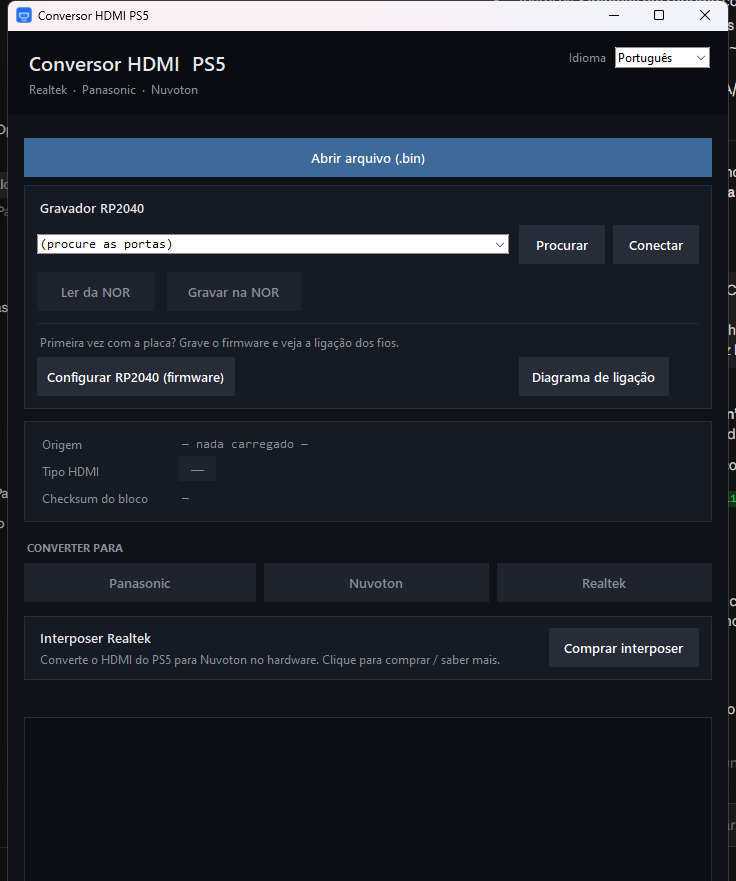
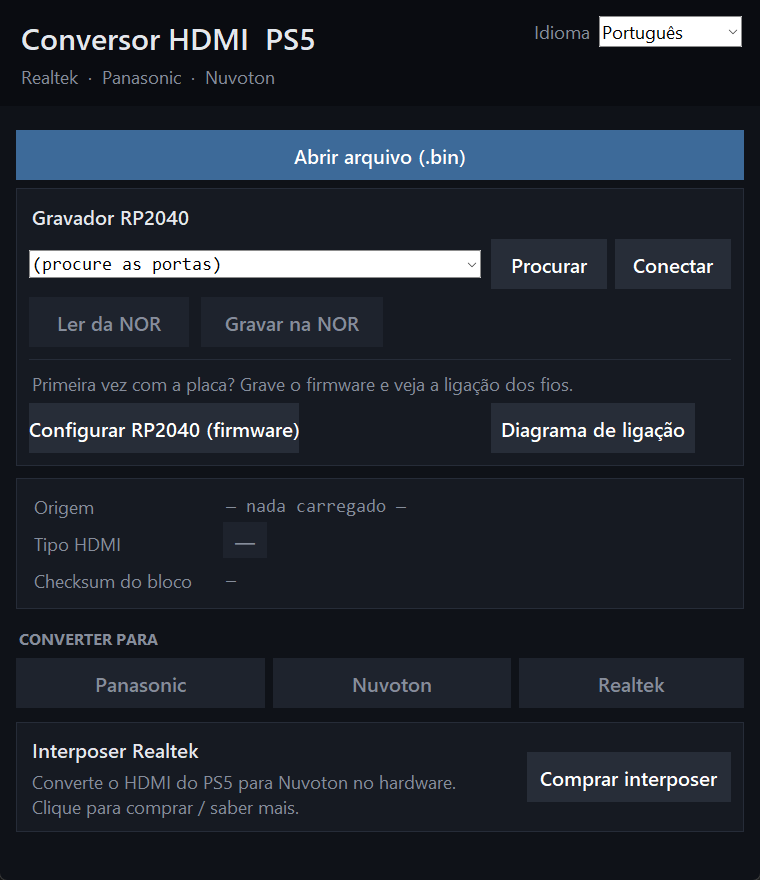
README: print do software em alta resolucao e remove link do Instagram

diff --git a/README.md b/README.md
@@ -95,8 +95,7 @@ Converte o HDMI do PS5 para Nuvoton direto no hardware.
 ## Créditos
 
 - **Estudos do offset de HDMI do PS5:** **TXD Games** e **Thiago Max**.
-- **Software e finalização do offset:** **Felipe Calmon**, InfinityGames
-  ([@infinitygamesinfo](https://www.instagram.com/infinitygamesinfo)).
+- **Software e finalização do offset:** **Felipe Calmon**, InfinityGames.
 
 ## Aviso
 
